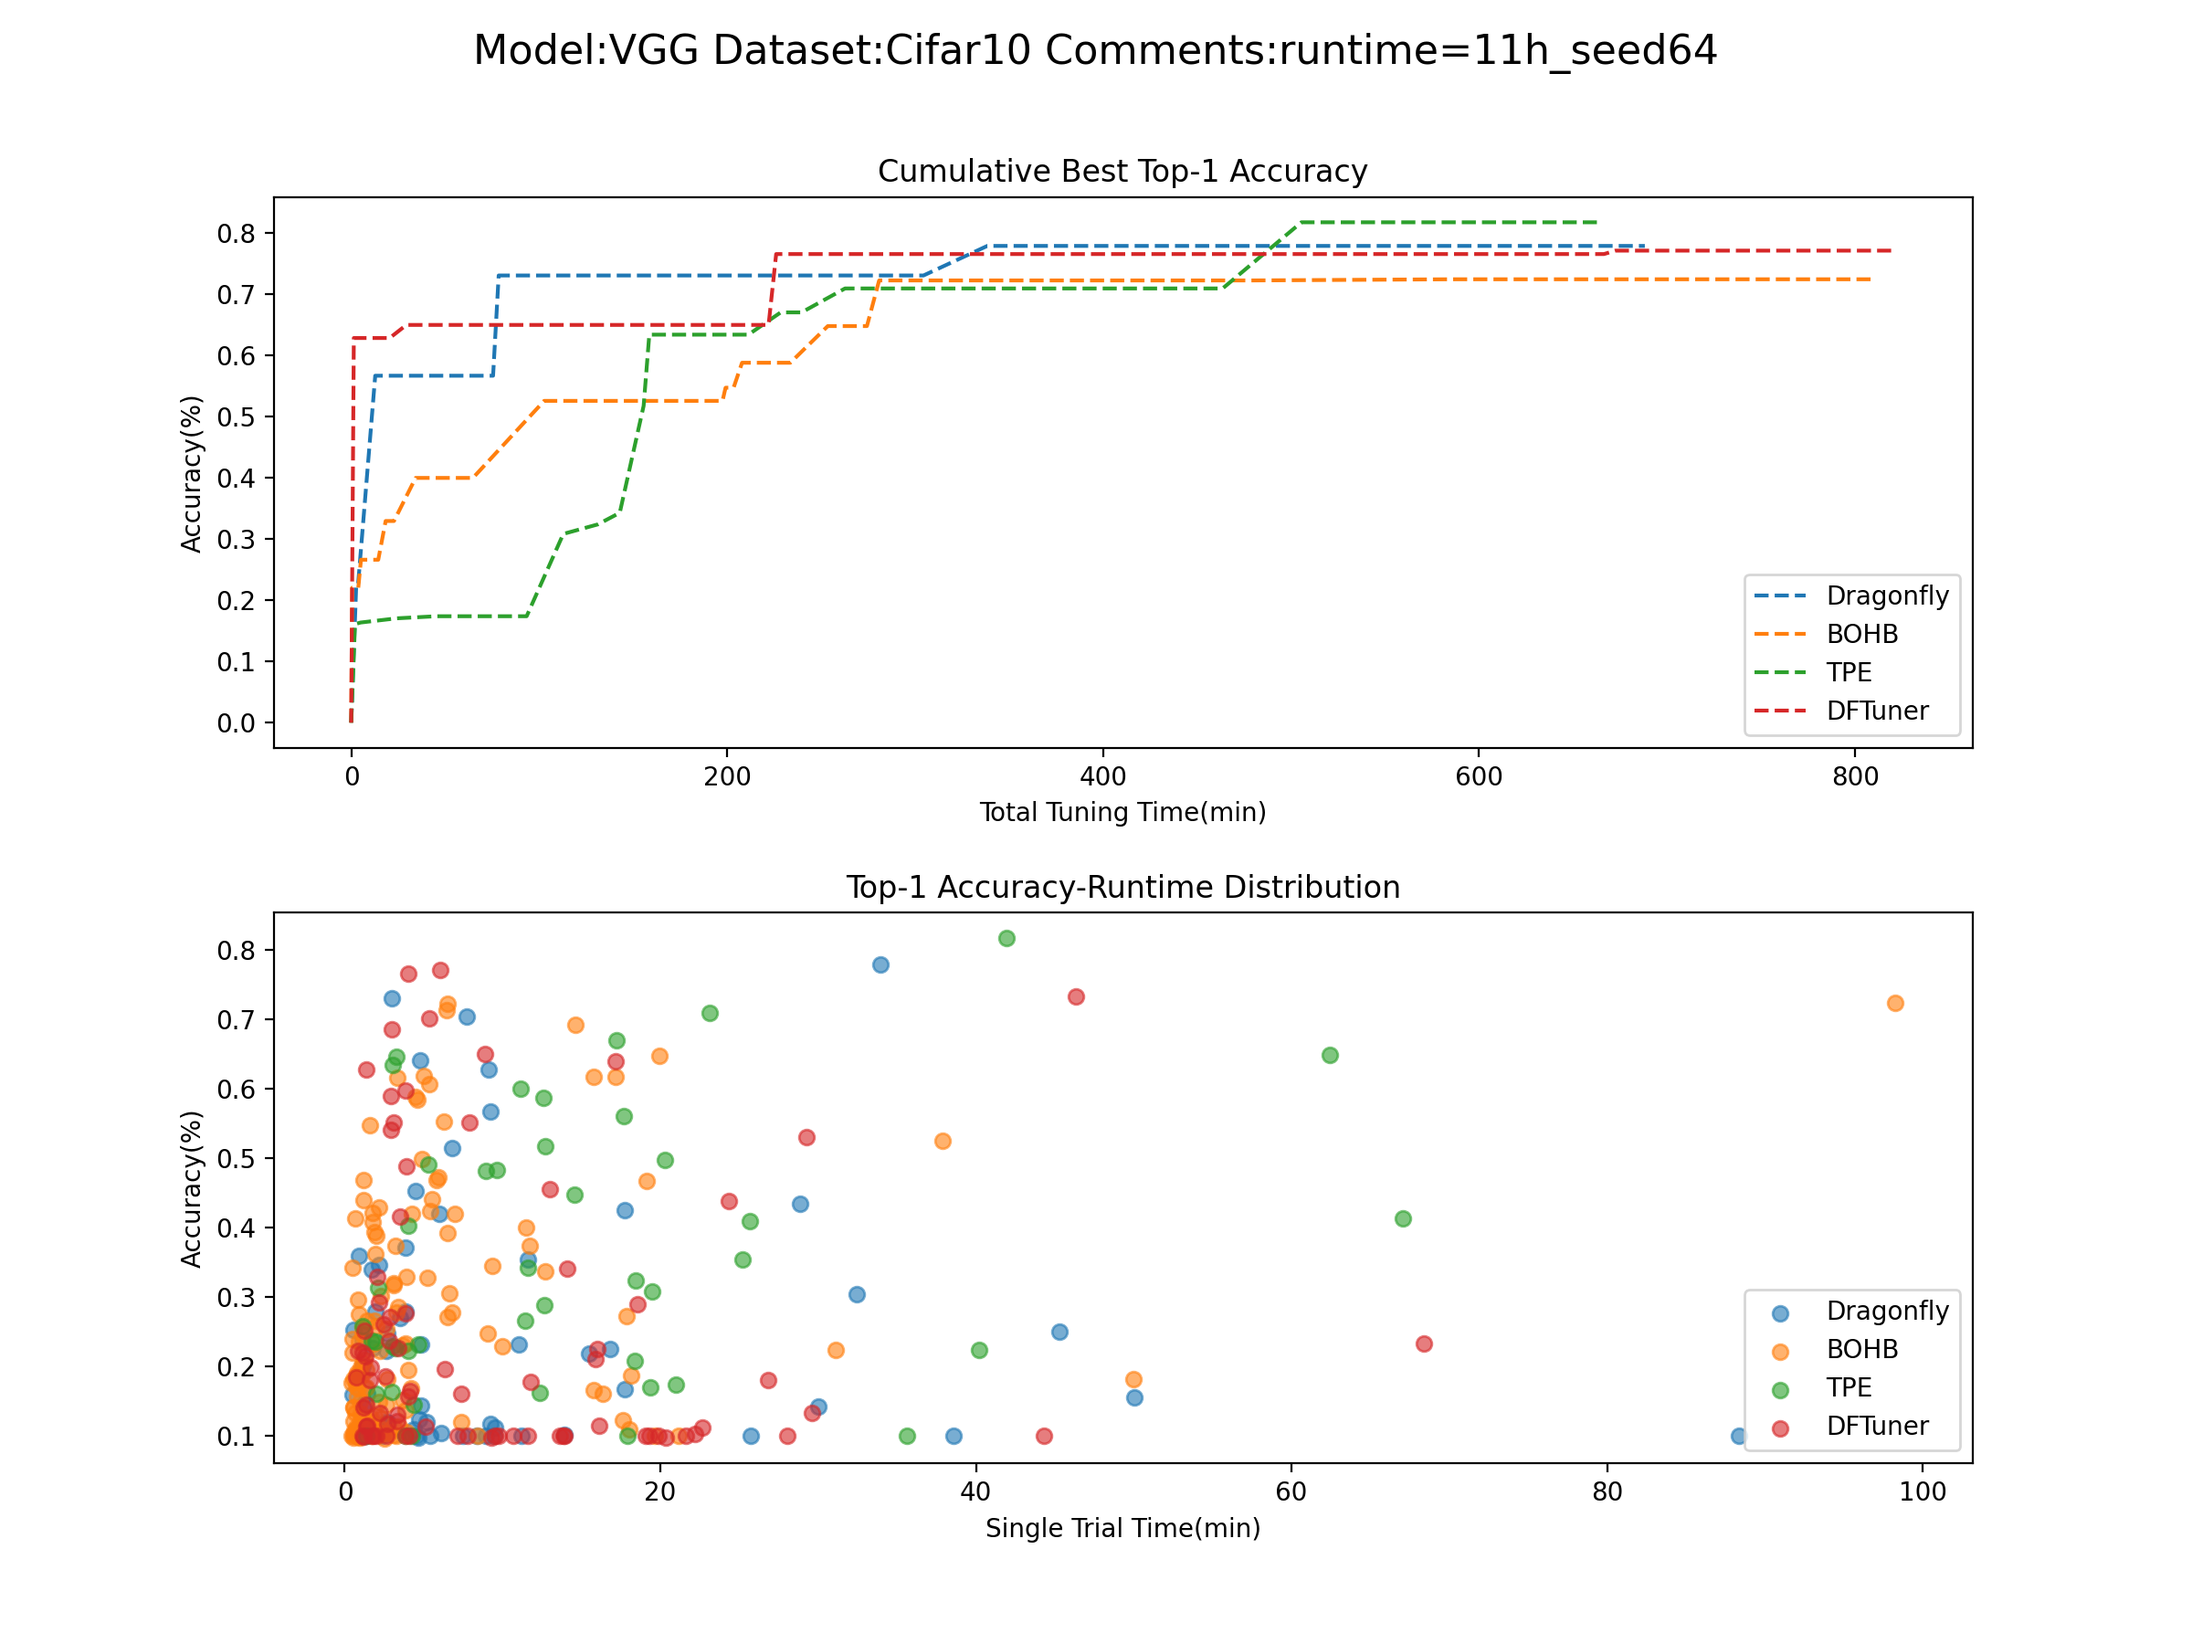
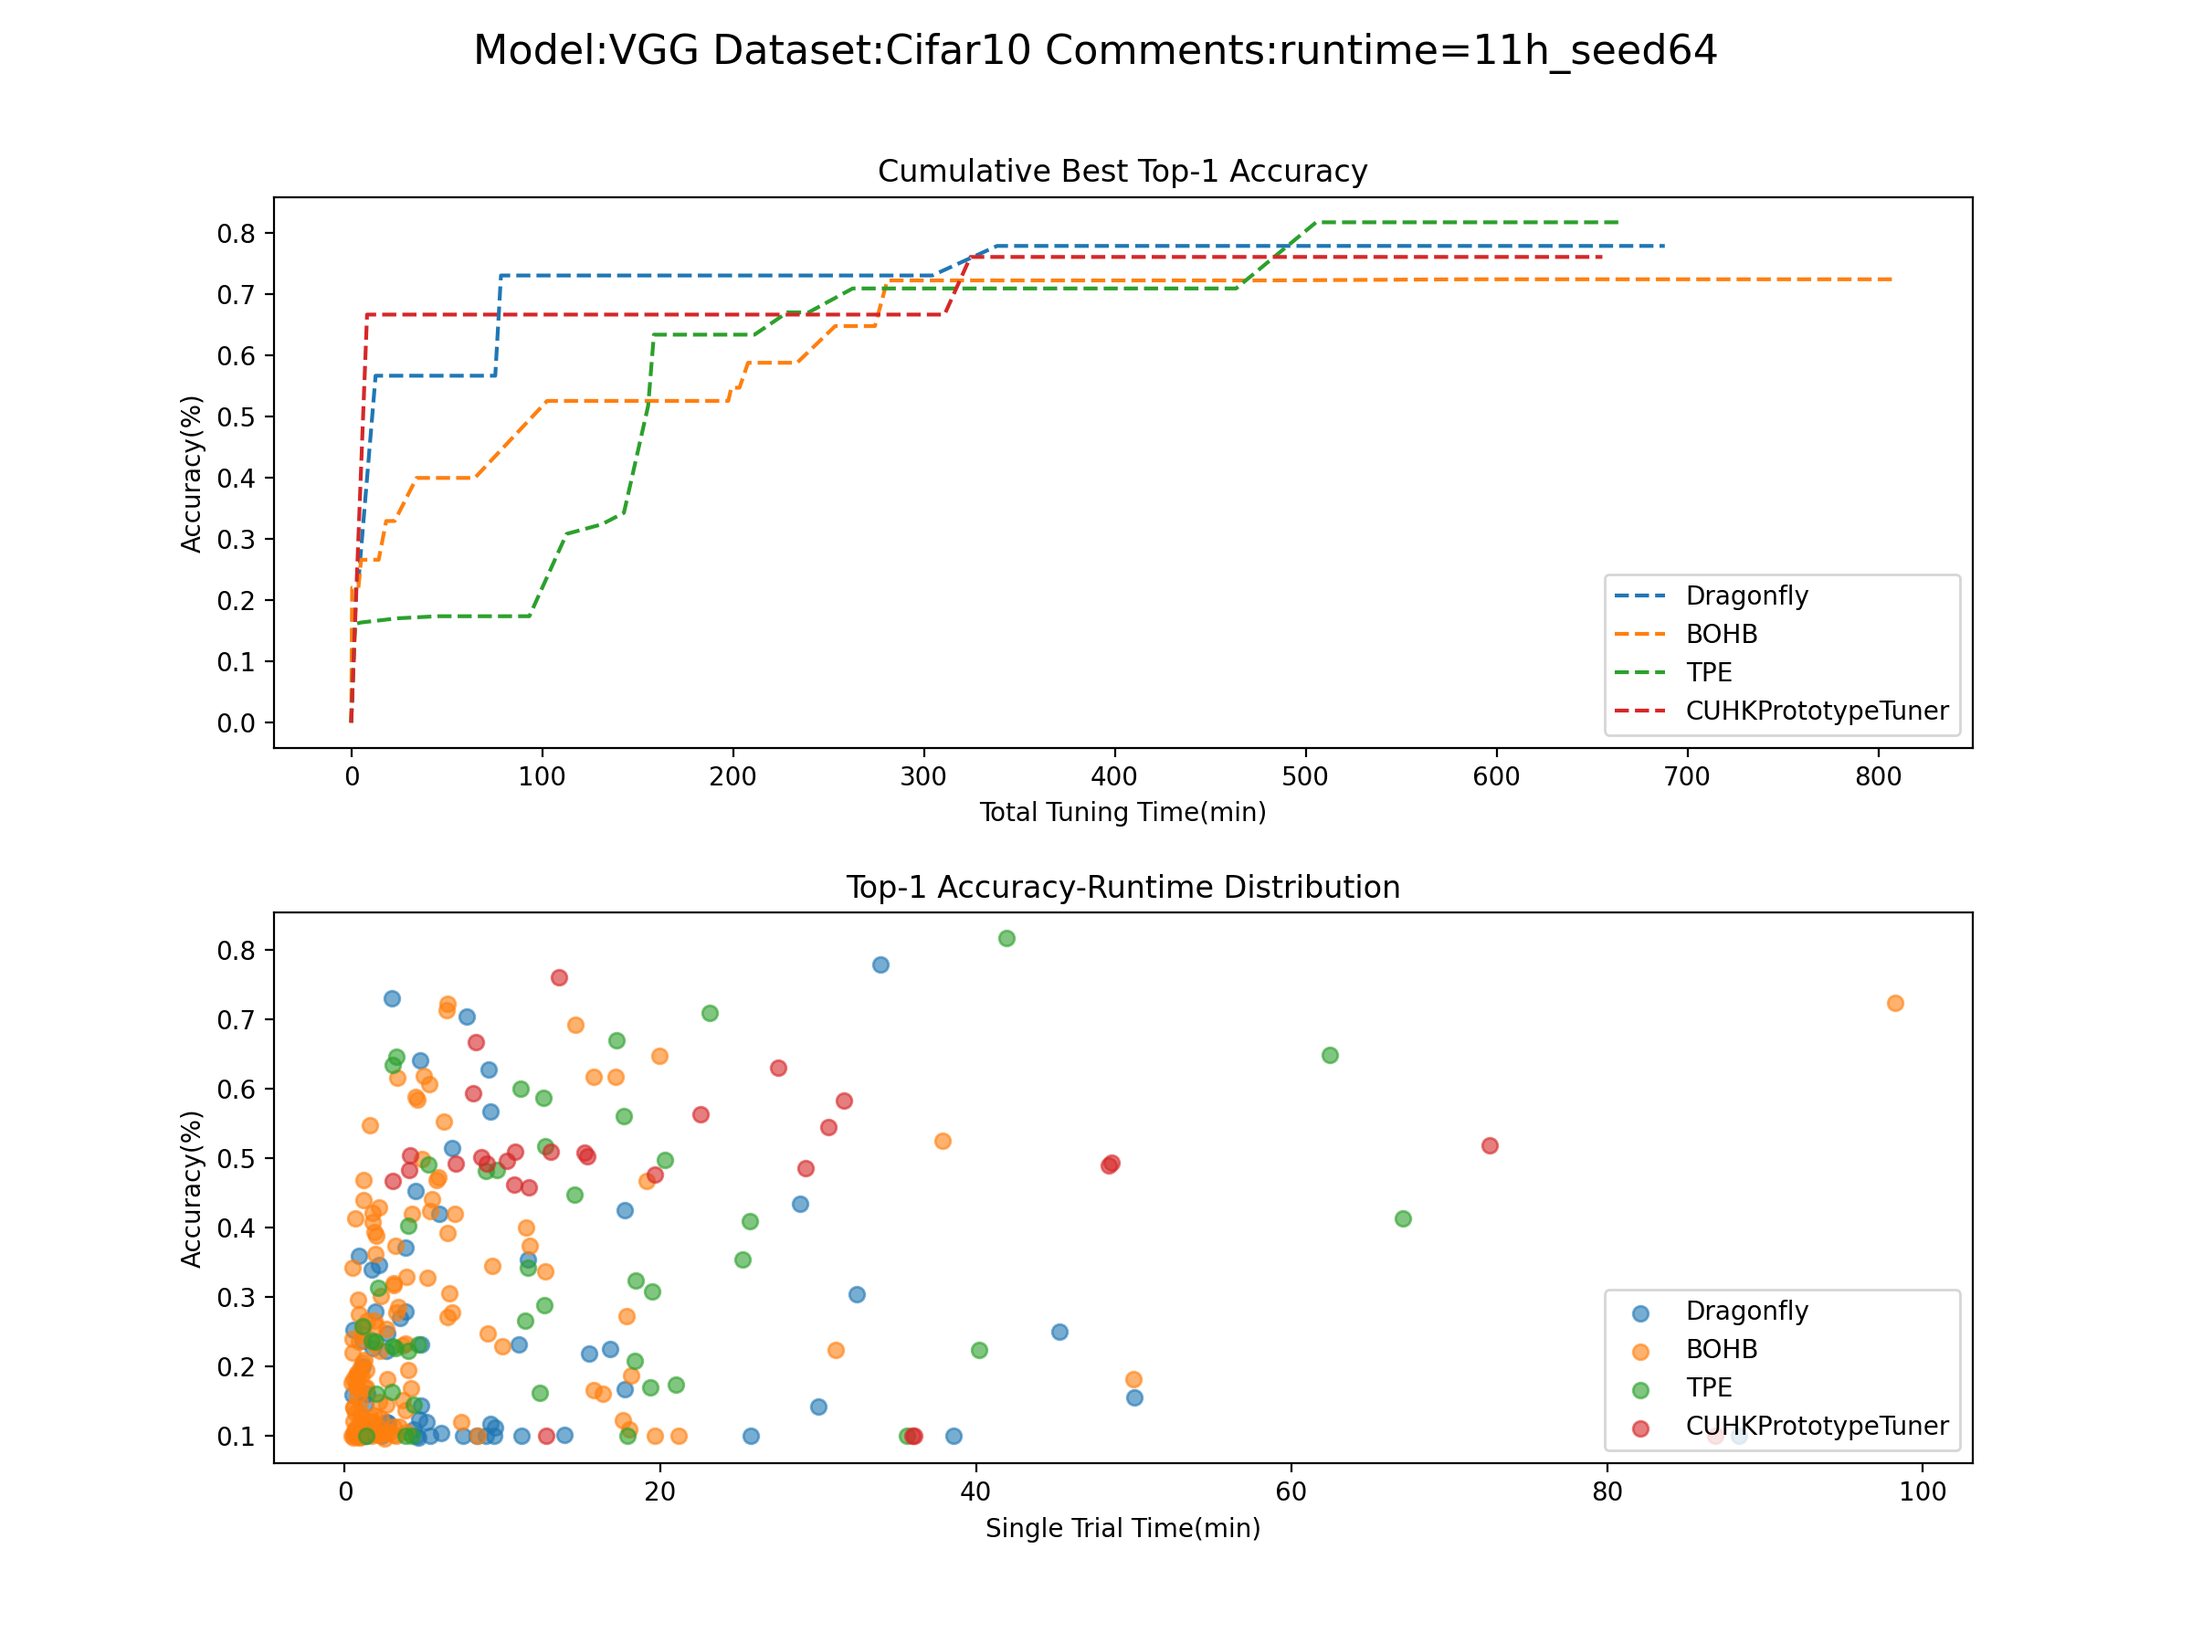
update installation guide for v1.1 and update vgg result

diff --git a/README.md b/README.md
@@ -1,6 +1,6 @@
 # HPO-Training using Dragonfly(multi-obj) & NNI
 
-## Prerequisite
+## Installation
 
 ```bash
 # Necessary environment to run all models
@@ -13,10 +13,15 @@ pip install https://github.com/vincentcheny/hpo-training/releases/download/v1.0/
 # BOHB installation
 nnictl package install --name=BOHB
 
-# CUHKPrototypeTuner installation
+# CUHKPrototypeTuner installation for v1.0
 pip install nni https://github.com/vincentcheny/hpo-training/releases/download/v1.0/dragonfly-0.1.6.1-py3-none-any.whl
 wget https://github.com/vincentcheny/hpo-training/releases/download/v1.0/CUHKPrototypeTuner-1.0-py3-none-any.whl
 nnictl package install CUHKPrototypeTuner-1.0-py3-none-any.whl
+
+# CUHKPrototypeTuner installation for v1.1 or after
+pip install nni
+wget https://github.com/vincentcheny/hpo-training/releases/download/v1.1/CUHKPrototypeTuner-1.1-py3-none-any.whl
+nnictl package install CUHKPrototypeTuner-1.1-py3-none-any.whl
 ```
 
 ## Search Space
@@ -64,7 +69,7 @@ nnictl package install CUHKPrototypeTuner-1.0-py3-none-any.whl
 
 |                            Model                             |                           Dataset                            | Runtime |                            Result                            |
 | :----------------------------------------------------------: | :----------------------------------------------------------: | :-----: | :----------------------------------------------------------: |
-|                            VGG16                             | [Cifar10](https://www.tensorflow.org/api_docs/python/tf/keras/datasets/cifar10) (178M) |  10hrs  | ![](https://lh3.googleusercontent.com/-Lkq4TB2YgeQ/X1B3DA2TwDI/AAAAAAAAAcE/YQAsq7OTcvkH3H0jMScxpF96SQYsQoyEgCK8BGAsYHg/s0/2020-09-02.png) |
+|                            VGG16                             | [Cifar10](https://www.tensorflow.org/api_docs/python/tf/keras/datasets/cifar10) (178M) |  10hrs  | ![](https://lh3.googleusercontent.com/-tJ7ozNHhskU/X1nYgJmAiPI/AAAAAAAAAdE/KaMg8hP3jSYErM5oAT-IbTEUIkTTL7csACK8BGAsYHg/s0/2020-09-10.png) |
 | [DenseNet](https://www.kaggle.com/ratan123/aptos-2019-keras-baseline) | [Blindness Detection](https://www.kaggle.com/c/aptos2019-blindness-detection) (10G) |  15hrs  | ![](https://lh3.googleusercontent.com/-7RV--Gw9xxs/X1Gzrls_m3I/AAAAAAAAAcY/A7WUdgzzkpsU0cgedPgogroLu8yUkcfMQCK8BGAsYHg/s0/2020-09-03.png) |
 |                          Inception                           | [Human Protein](https://www.kaggle.com/mathormad/inceptionv3-baseline-lb-0-379/data) (14G) |  20hrs  | ![](https://lh3.googleusercontent.com/-jLtsWxO15uI/X1WuFwg3RrI/AAAAAAAAAcs/Bh2aHVAMlwkaxVCJzzqmkWRwyuasWzmTwCK8BGAsYHg/s0/2020-09-06.png) |
 |                          GoogLeNet                           |         [ImageNet](http://www.image-net.org/) (134G)         |  50hrs  | ![](https://lh3.googleusercontent.com/-InEwCSUkhxY/X0j-MxnYbwI/AAAAAAAAAbU/p8G_7Hb073shM5TbXDT6lEzxIvCoRkL5wCK8BGAsYHg/s0/2020-08-28.png) |
